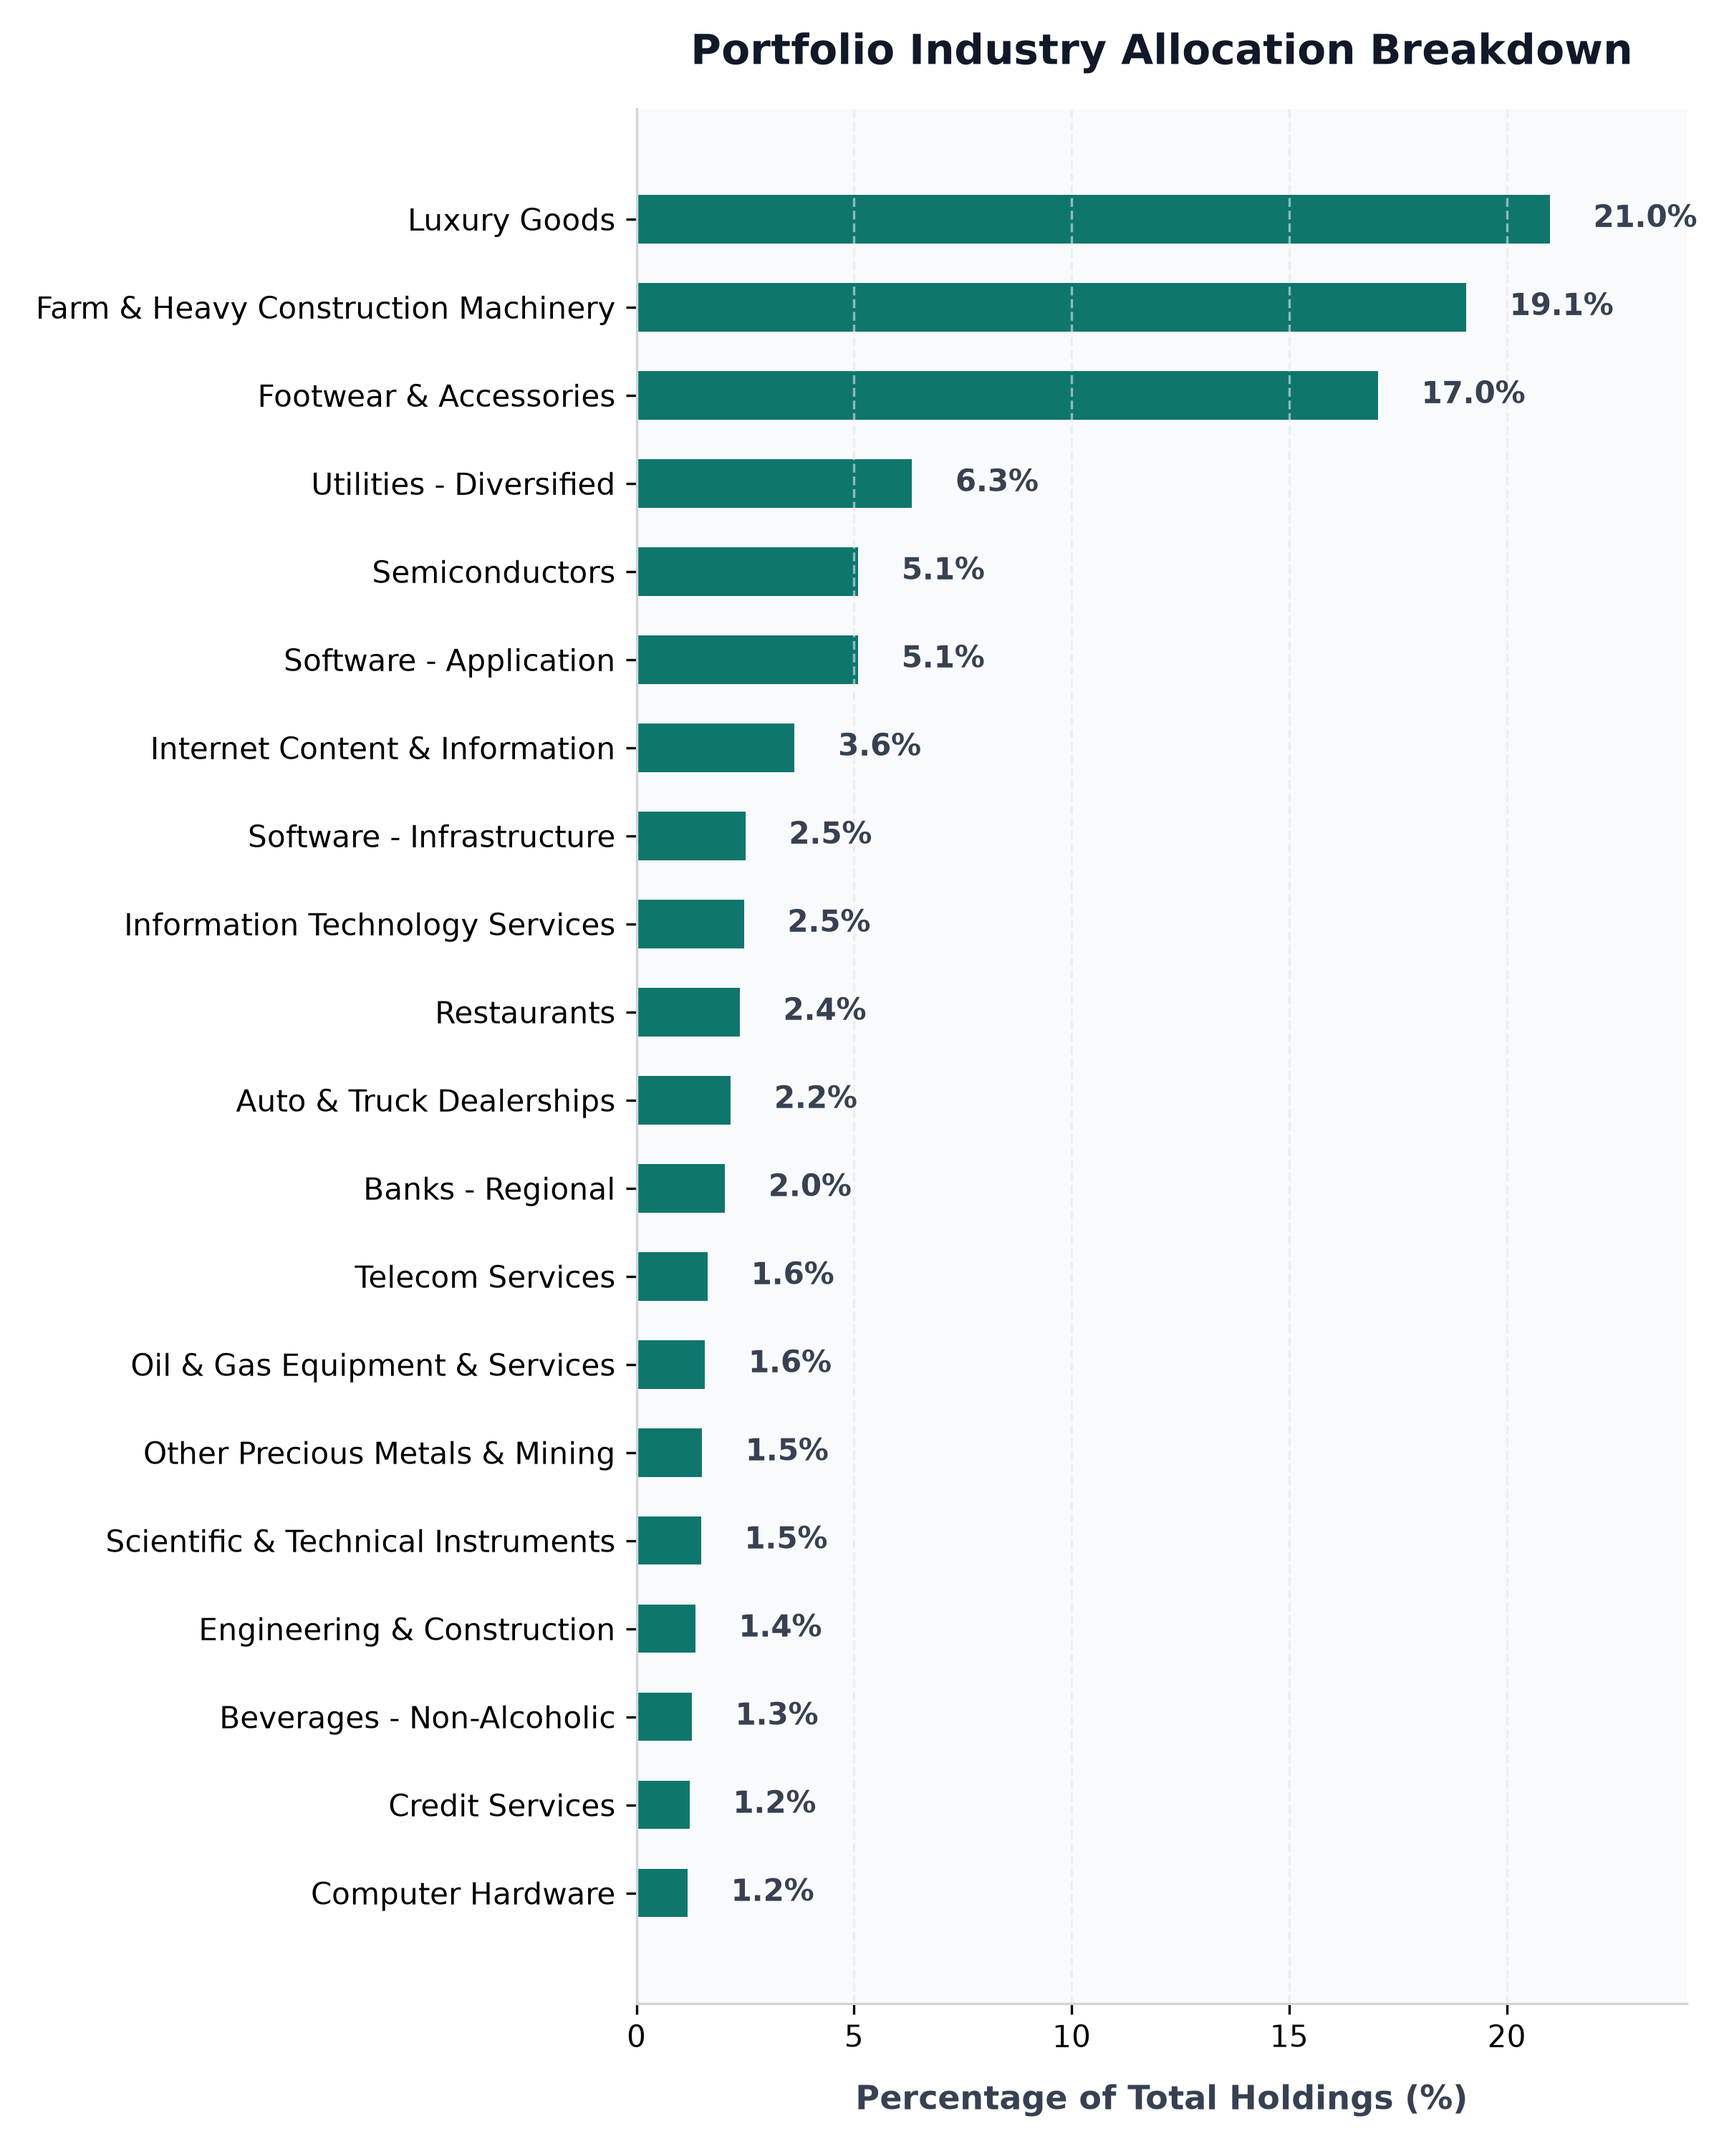
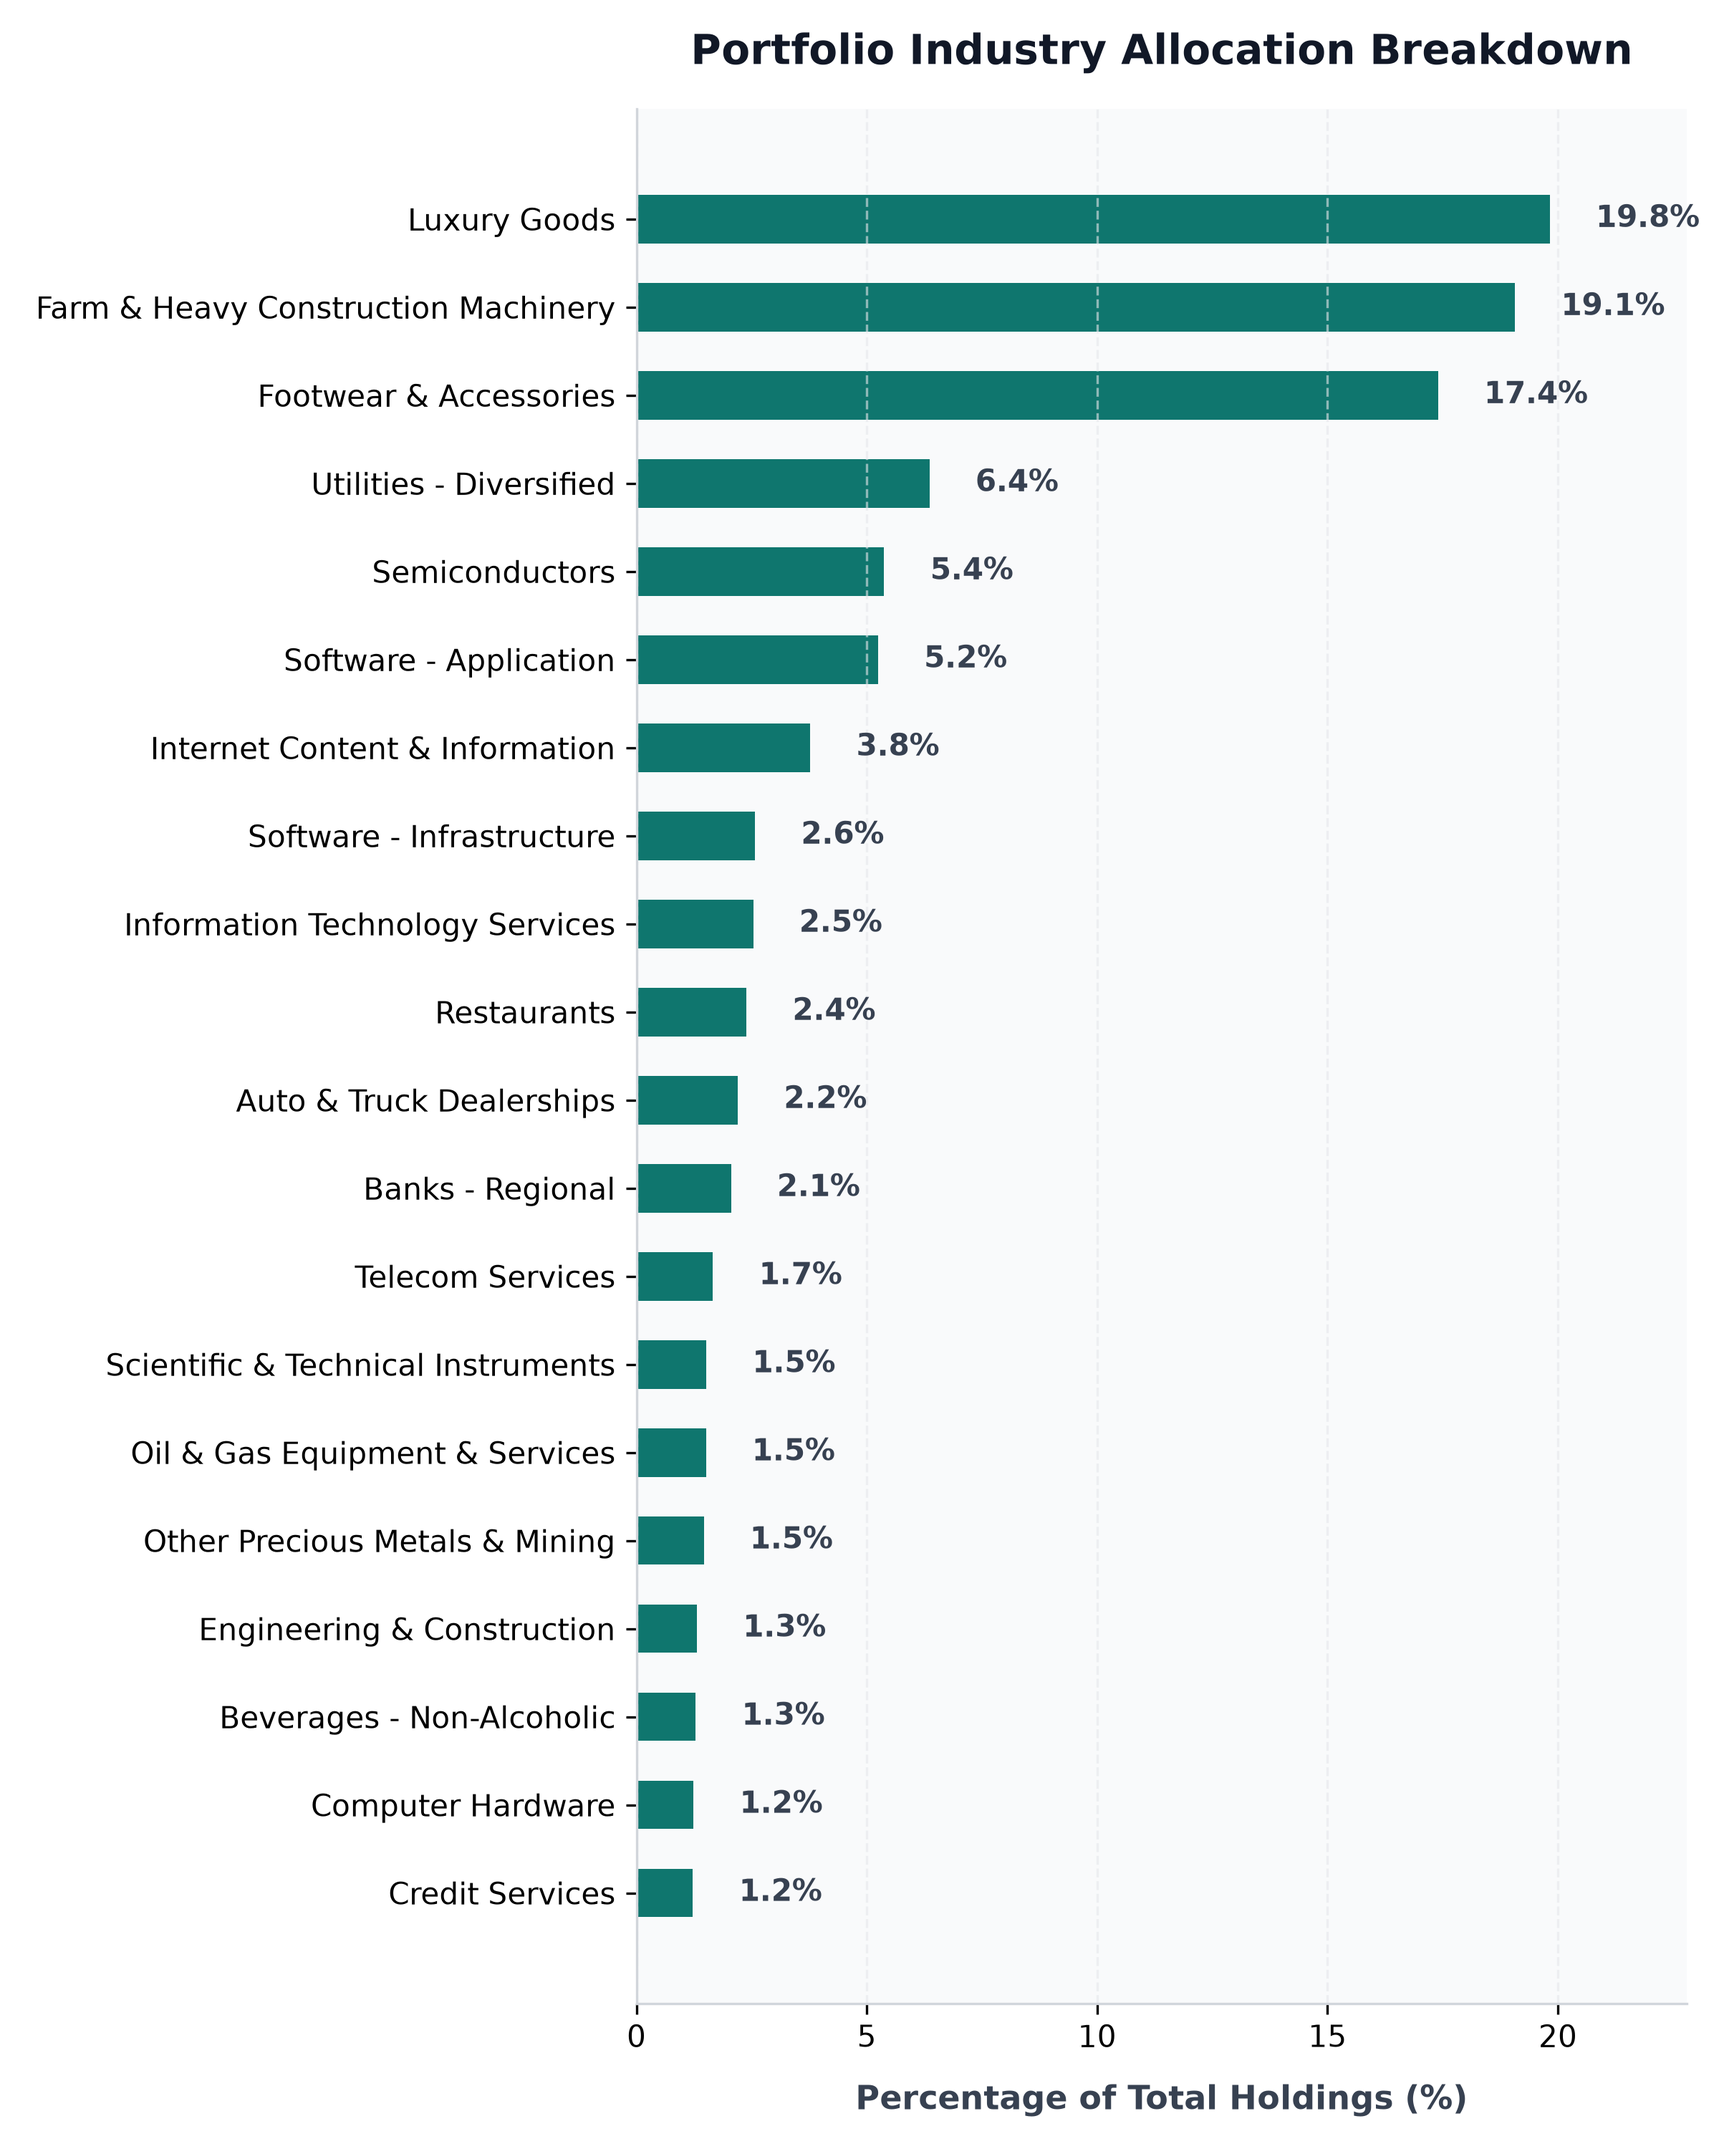
auto: daily portfolio status update - 2026-09-22 00:00:17

diff --git a/src/content/posts/portfolio-performance.md b/src/content/posts/portfolio-performance.md
@@ -1,6 +1,6 @@
 ---
 title: "BadOmen Algorithmic Portfolio Performance & PnL Report"
-pubDatetime: 2026-09-19T06:05:14.633282+08:00
+pubDatetime: 2026-09-22T00:00:17.219851+08:00
 description: "Live performance metrics, active holdings, and historic equity curve for the BadOmen automated paper trading portfolio."
 featured: true
 draft: false
@@ -16,11 +16,11 @@ Welcome to the live performance dashboard for **BadOmen**, our automated algorit
 ## 📊 Portfolio Summary
 | Performance Metric | Value | description |
 | :--- | :--- | :--- |
-| **Net Portfolio Equity** | **$96,698.89** | Total current liquidation value of cash and stock holdings |
-| **Total Unrealized P&L** | 🔴 **$-4,179.84** (-4.14%) | Total return of current open holdings |
+| **Net Portfolio Equity** | **$96,414.77** | Total current liquidation value of cash and stock holdings |
+| **Total Unrealized P&L** | 🔴 **$-4,466.58** (-4.43%) | Total return of current open holdings |
 | **Cash Balance** | $23,482.80 | Idle reserve currency available for limit orders |
-| **Buying Power** | $298,936.27 | Margin-backed buying power for entry allocations |
-| **Report Updated** | `2026-09-19 06:05:14 (SGT)` | Timestamp of daily execution and sync run |
+| **Buying Power** | $298,140.70 | Margin-backed buying power for entry allocations |
+| **Report Updated** | `2026-09-22 00:00:17 (SGT)` | Timestamp of daily execution and sync run |
 
 ## 📈 Net Equity Growth Curve
 The chart below illustrates the historical performance of the account starting from our baseline capital funding of $100,000.00.
@@ -35,36 +35,36 @@ The chart below illustrates the exposure of our currently held active positions 
 ## 💼 Current Position Holdings
 | Ticker | Industry | Shares Owned | Average Entry Cost | Current Price | Unrealized P&L | Return (%) |
 | :--- | :--- | :--- | :--- | :--- | :--- | :--- |
-| **AN** | Auto & Truck Dealerships | 5 | $188.51 | $169.18 | 🔴 $-96.64 | -10.25% |
-| **AVGO** | Semiconductors | 1 | $385.71 | $357.50 | 🔴 $-28.21 | -7.31% |
-| **BIRK** | Footwear & Accessories | 407 | $37.32 | $30.65 | 🔴 $-2,712.95 | -17.86% |
-| **BLBD** | Farm & Heavy Construction Machinery | 231 | $65.52 | $60.43 | 🔴 $-1,174.86 | -7.76% |
-| **BVN** | Other Precious Metals & Mining | 32 | $31.88 | $34.45 | 🟢 +$82.40 | +8.08% |
-| **CELH** | Beverages - Non-Alcoholic | 33 | $29.71 | $28.19 | 🔴 $-50.25 | -5.12% |
-| **CPRI** | Luxury Goods | 1042 | $14.55 | $14.75 | 🟢 +$203.92 | +1.34% |
-| **DUOL** | Software - Application | 14 | $131.04 | $142.33 | 🟢 +$158.03 | +8.61% |
-| **FIS** | Information Technology Services | 23 | $41.79 | $35.84 | 🔴 $-136.85 | -14.24% |
-| **GDDY** | Software - Infrastructure | 6 | $76.21 | $97.46 | 🟢 +$127.50 | +27.88% |
-| **GDS** | Information Technology Services | 30 | $32.77 | $32.79 | 🟢 +$0.60 | +0.06% |
-| **GGAL** | Banks - Regional | 17 | $56.04 | $41.76 | 🔴 $-242.75 | -25.48% |
-| **GOOGL** | Internet Content & Information | 3 | $319.44 | $350.60 | 🟢 +$93.48 | +9.75% |
-| **GPI** | Auto & Truck Dealerships | 3 | $316.15 | $246.42 | 🔴 $-209.18 | -22.05% |
-| **HUBS** | Software - Application | 8 | $221.18 | $217.00 | 🔴 $-33.45 | -1.89% |
-| **ITRI** | Scientific & Technical Instruments | 12 | $81.80 | $90.44 | 🟢 +$103.71 | +10.56% |
-| **KBR** | Engineering & Construction | 27 | $36.23 | $36.64 | 🟢 +$10.99 | +1.12% |
-| **META** | Internet Content & Information | 1 | $568.17 | $668.80 | 🟢 +$100.63 | +17.71% |
-| **NESR** | Oil & Gas Equipment & Services | 34 | $28.74 | $33.90 | 🟢 +$175.44 | +17.95% |
-| **NU** | Banks - Regional | 57 | $11.60 | $13.67 | 🟢 +$118.07 | +17.86% |
-| **ON** | Semiconductors | 10 | $90.45 | $70.04 | 🔴 $-204.14 | -22.57% |
-| **ORCL** | Software - Infrastructure | 5 | $181.95 | $147.67 | 🔴 $-171.42 | -18.84% |
-| **PATH** | Software - Infrastructure | 38 | $10.25 | $13.40 | 🟢 +$119.70 | +30.73% |
-| **PYPL** | Credit Services | 17 | $56.05 | $52.49 | 🔴 $-60.52 | -6.35% |
-| **QCOM** | Semiconductors | 15 | $193.68 | $178.15 | 🔴 $-233.02 | -8.02% |
-| **SMCI** | Computer Hardware | 22 | $29.25 | $39.06 | 🟢 +$215.82 | +33.54% |
-| **SRE** | Utilities - Diversified | 57 | $84.75 | $81.31 | 🔴 $-196.22 | -4.06% |
-| **T** | Telecom Services | 47 | $20.85 | $25.47 | 🟢 +$217.14 | +22.16% |
-| **WEN** | Restaurants | 257 | $8.02 | $6.76 | 🔴 $-324.78 | -15.75% |
-| **ZG** | Internet Content & Information | 31 | $31.35 | $30.32 | 🔴 $-32.03 | -3.29% |
+| **AN** | Auto & Truck Dealerships | 5 | $188.51 | $169.35 | 🔴 $-95.77 | -10.16% |
+| **AVGO** | Semiconductors | 1 | $385.71 | $358.00 | 🔴 $-27.71 | -7.18% |
+| **BIRK** | Footwear & Accessories | 407 | $37.32 | $31.18 | 🔴 $-2,500.09 | -16.46% |
+| **BLBD** | Farm & Heavy Construction Machinery | 231 | $65.52 | $60.20 | 🔴 $-1,226.83 | -8.11% |
+| **BVN** | Other Precious Metals & Mining | 32 | $31.88 | $33.30 | 🟢 +$45.60 | +4.47% |
+| **CELH** | Beverages - Non-Alcoholic | 33 | $29.71 | $28.43 | 🔴 $-42.16 | -4.30% |
+| **CPRI** | Luxury Goods | 1042 | $14.55 | $13.88 | 🔴 $-705.23 | -4.65% |
+| **DUOL** | Software - Application | 14 | $131.04 | $151.11 | 🟢 +$280.92 | +15.31% |
+| **FIS** | Information Technology Services | 23 | $41.79 | $35.59 | 🔴 $-142.49 | -14.82% |
+| **GDDY** | Software - Infrastructure | 6 | $76.21 | $103.14 | 🟢 +$161.55 | +35.33% |
+| **GDS** | Information Technology Services | 30 | $32.77 | $34.29 | 🟢 +$45.60 | +4.64% |
+| **GGAL** | Banks - Regional | 17 | $56.04 | $41.45 | 🔴 $-247.94 | -26.02% |
+| **GOOGL** | Internet Content & Information | 3 | $319.44 | $356.81 | 🟢 +$112.11 | +11.70% |
+| **GPI** | Auto & Truck Dealerships | 3 | $316.15 | $252.40 | 🔴 $-191.25 | -20.16% |
+| **HUBS** | Software - Application | 8 | $221.18 | $213.51 | 🔴 $-61.37 | -3.47% |
+| **ITRI** | Scientific & Technical Instruments | 12 | $81.80 | $92.17 | 🟢 +$124.50 | +12.68% |
+| **KBR** | Engineering & Construction | 27 | $36.23 | $35.43 | 🔴 $-21.68 | -2.22% |
+| **META** | Internet Content & Information | 1 | $568.17 | $721.28 | 🟢 +$153.11 | +26.95% |
+| **NESR** | Oil & Gas Equipment & Services | 34 | $28.74 | $32.34 | 🟢 +$122.40 | +12.53% |
+| **NU** | Banks - Regional | 57 | $11.60 | $13.88 | 🟢 +$130.05 | +19.67% |
+| **ON** | Semiconductors | 10 | $90.45 | $70.53 | 🔴 $-199.25 | -22.03% |
+| **ORCL** | Software - Infrastructure | 5 | $181.95 | $148.62 | 🔴 $-166.65 | -18.32% |
+| **PATH** | Software - Infrastructure | 38 | $10.25 | $13.54 | 🟢 +$125.21 | +32.15% |
+| **PYPL** | Credit Services | 17 | $56.05 | $52.62 | 🔴 $-58.31 | -6.12% |
+| **QCOM** | Semiconductors | 15 | $193.68 | $190.57 | 🔴 $-46.72 | -1.61% |
+| **SMCI** | Computer Hardware | 22 | $29.25 | $41.11 | 🟢 +$260.92 | +40.55% |
+| **SRE** | Utilities - Diversified | 57 | $84.75 | $81.35 | 🔴 $-193.94 | -4.01% |
+| **T** | Telecom Services | 47 | $20.85 | $25.79 | 🟢 +$231.94 | +23.67% |
+| **WEN** | Restaurants | 257 | $8.02 | $6.78 | 🔴 $-320.92 | -15.56% |
+| **ZG** | Internet Content & Information | 31 | $31.35 | $30.96 | 🔴 $-12.19 | -1.25% |
 
 ## 🔴 Recent Realized Trades
 | Ticker | Shares Sold | Entry Price | Exit Price | Strategy Trigger | Realized Return | Exit Date |
